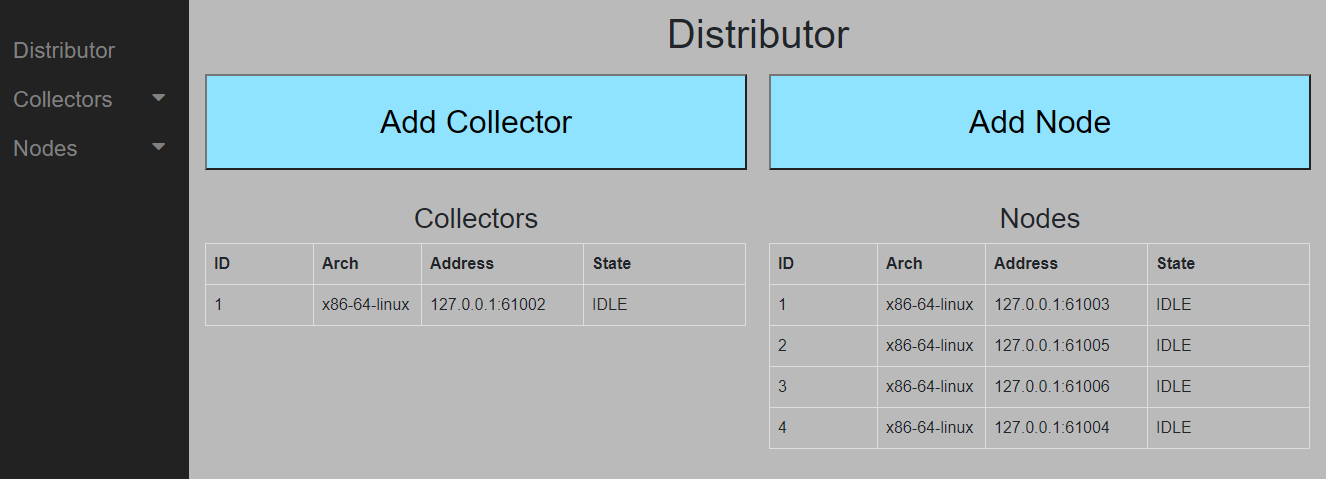
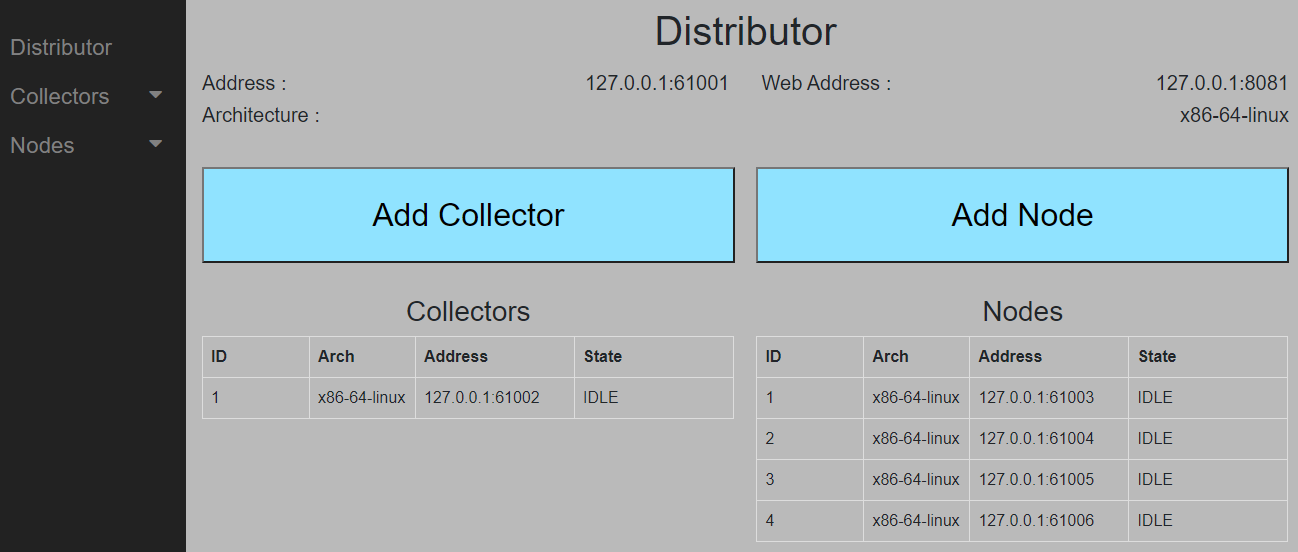
Dist Picture update

diff --git a/data/html/index.html b/data/html/index.html
@@ -609,9 +609,11 @@
             }
 
             let data = JSON.parse(this.responseText);
+
             document.getElementById("dist-address").innerHTML = data._distItem._address;
             document.getElementById("dist-web-address").innerHTML = data._distItem._webAddress;
             document.getElementById("dist-arch").innerHTML = ARCH_TYPES[data._distItem._arch];
+
             onDistUpdateCollList(data);
             onDistUpdateNodeList(data);
         };

diff --git a/src/CommTCP.cpp b/src/CommTCP.cpp
@@ -52,7 +52,7 @@ bool CommTCP::initTCP() {
 
         if (result < 0 || tcpServer->delayed_error != 0) {
 
-            LOGS_E(getHost(), "Could not bind to socket at address : %s, trying next one!!!",
+            LOGS_D(getHost(), "Could not bind to socket at address : %s, trying next one!!!",
                    NetUtil::getIPPortString(address->get()).c_str());
 
             address->setPort(lastFreeTCPPort++);
